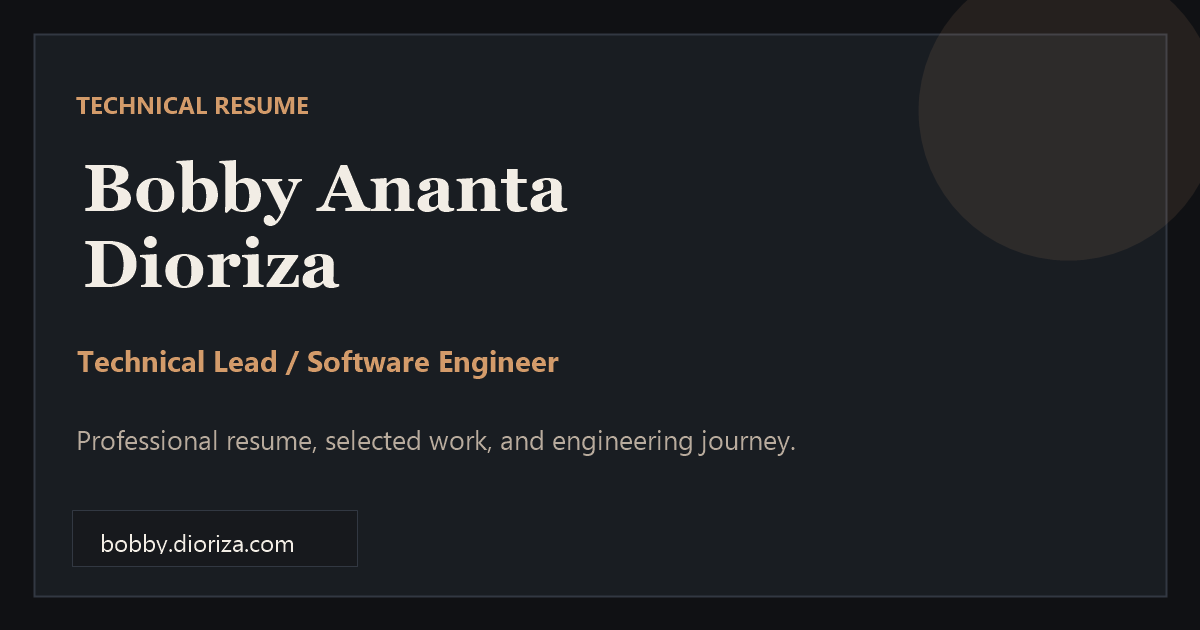
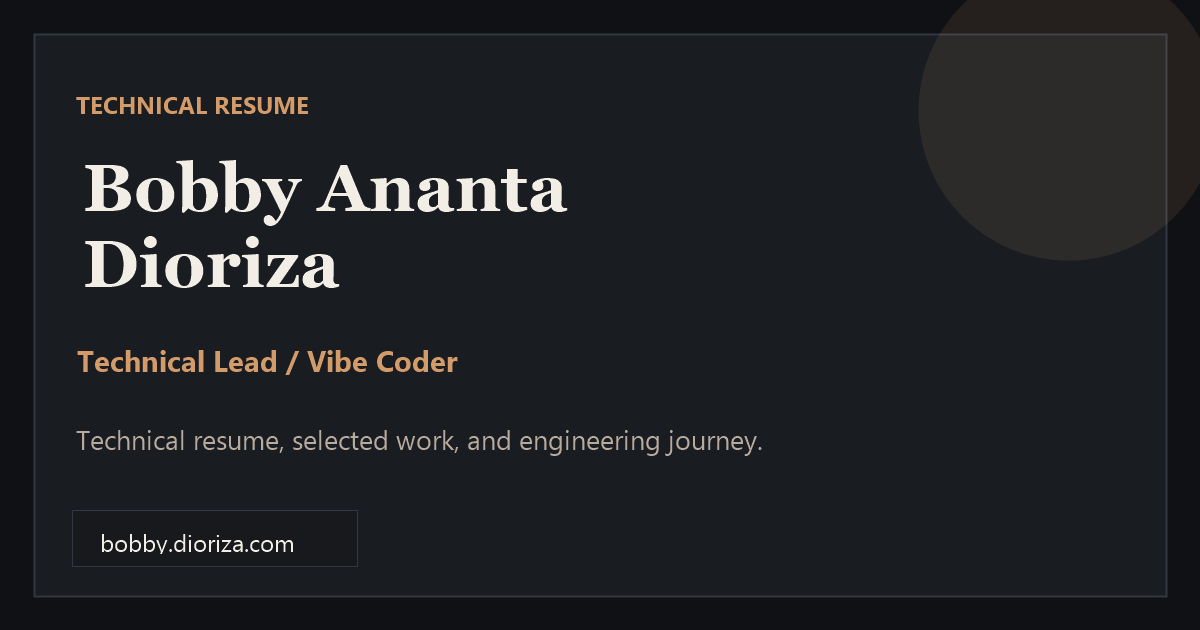
Align SEO metadata with resume branding

Changed region(s): [[0.0617, 0.6937, 0.6783, 0.7238], [0.2467, 0.5429, 0.4625, 0.6032]]

diff --git a/content/_index.md b/content/_index.md
@@ -1,7 +1,7 @@
 ---
 title: "Bobby Ananta Dioriza"
-seoTitle: "Bobby Ananta Dioriza | Technical Lead / Software Engineer"
-description: "Professional resume of Bobby Ananta Dioriza, Technical Lead and Software Engineer with experience in scalable systems, software architecture, and team leadership."
+seoTitle: "Bobby Ananta Dioriza | Technical Lead / Vibe Coder"
+description: "Technical resume of Bobby Ananta Dioriza, Technical Lead and Vibe Coder with experience in scalable systems, software architecture, and team leadership."
 name: "Bobby Ananta Dioriza"
 tagline: "Technical Lead | Vibe Coder"
 avatar: "/images/1597739542302.jpg"
